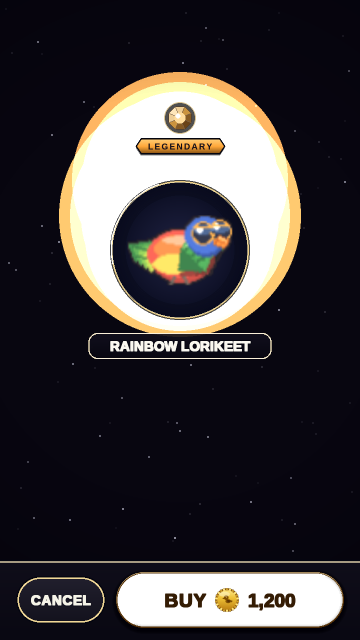
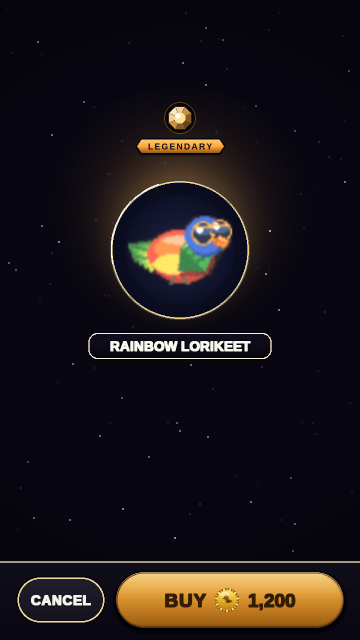
design: ticket-stub r2 render + updated vitrine-vault r1 and ticket-stub script

Changed region(s): [[0.1528, 0.0938, 0.8556, 0.5312], [0.3056, 0.875, 0.9472, 1.0]]

diff --git a/scratchpad/ticket_stub_r2.py b/scratchpad/ticket_stub_r2.py
@@ -132,18 +132,19 @@ price_chip(big, m(slip_cx), m(perf_y + 60), "12,500", m(26))
 
 
 def crown_gloss(surf, rect, radius, peak, band=0.34):
-    """A restrained specular confined to the top band only, so the pill body
-    keeps its gold ramp instead of blowing to white at centre."""
+    """A restrained specular confined to the top band only, alpha-composited (NOT
+    additive) so the sheen TINTS the gold crown rather than saturating every
+    channel to pure white — the pill keeps a gold body, never a white slab."""
     sweep = pygame.Surface(rect.size, pygame.SRCALPHA)
     bh = max(1, int(rect.h * band))
     for y in range(rect.h):
         a = int(peak * (1 - y / bh) ** 2.2) if y < bh else 0
         if a > 0:
-            pygame.draw.line(sweep, (255, 255, 255, a), (0, y), (rect.w, y))
+            pygame.draw.line(sweep, (255, 250, 235, a), (0, y), (rect.w, y))
     mask = pygame.Surface(rect.size, pygame.SRCALPHA)
     pygame.draw.rect(mask, (255, 255, 255, 255), mask.get_rect(), border_radius=radius)
     sweep.blit(mask, (0, 0), special_flags=pygame.BLEND_RGBA_MIN)
-    surf.blit(sweep, rect.topleft, special_flags=pygame.BLEND_ADD)
+    surf.blit(sweep, rect.topleft)
 
 
 # Gold BUY pill spanning ~75% slip width, ~20px above slip bottom.
@@ -163,7 +164,7 @@ buy_rect = pygame.Rect(m(buy_cx - buy_w // 2), m(buy_cy - buy_h // 2),
 brad = buy_rect.h // 2
 drop_shadow(big, buy_rect, brad, blur=m(5), alpha=120, dy=m(3))
 big.blit(gold_a_fill(buy_rect.w, buy_rect.h, brad), buy_rect.topleft)
-crown_gloss(big, buy_rect, brad, peak=50, band=0.34)
+crown_gloss(big, buy_rect, brad, peak=78, band=0.34)
 pygame.draw.rect(big, GOLD_A_RIM_DARK, buy_rect, width=max(1, m(1.8)), border_radius=brad)
 bevel_rim(big, buy_rect, brad, GOLD_A_RIM_DARK, (*GOLD_A_RIM_BRIGHT, 235), w=max(1, m(1.6)))
 buy_f = font(19)
